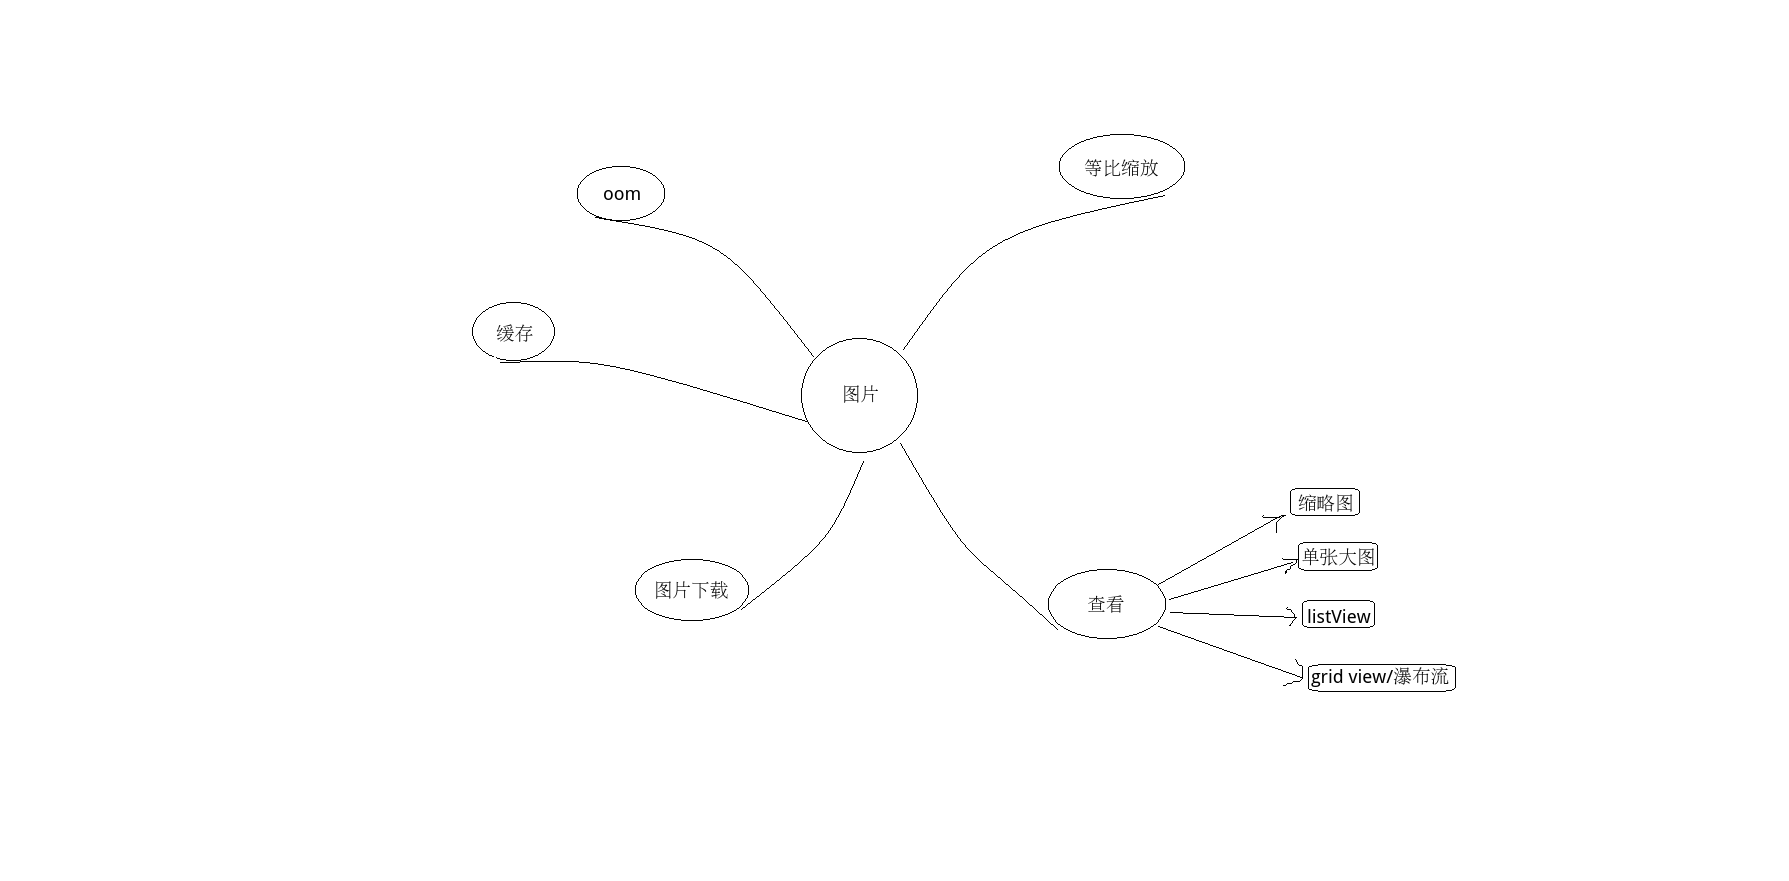
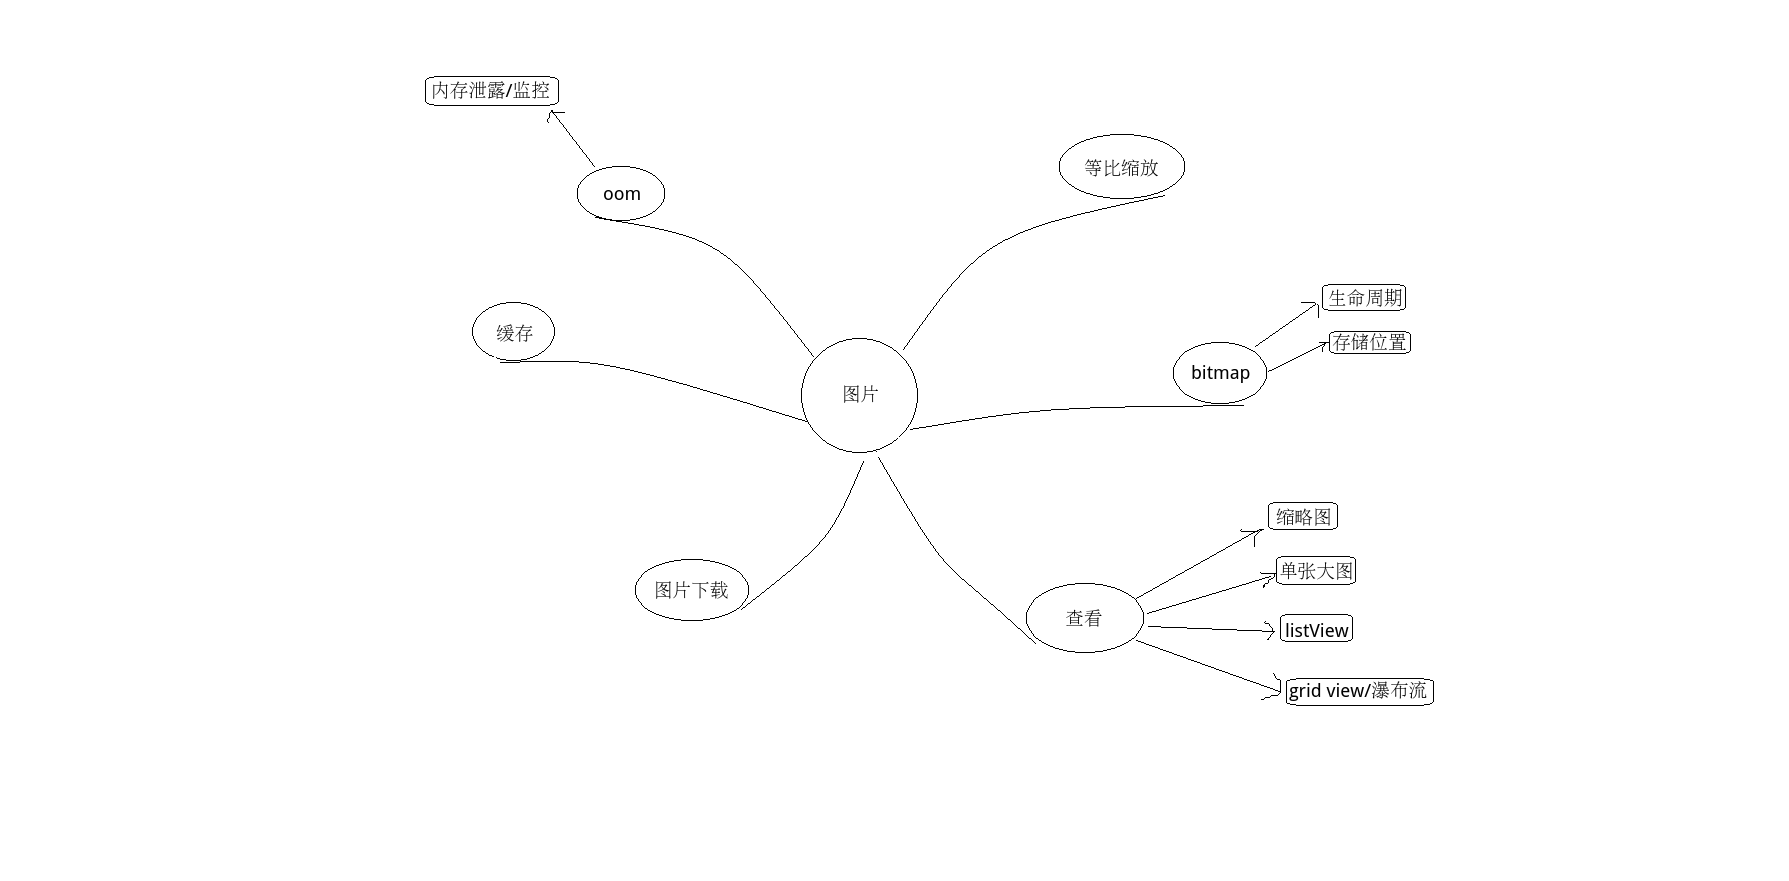
了解当前应用内存使用的情况，为图片oom的复现创建必要条件。

diff --git a/app/src/main/java/com/sevent/oom/OOMActivity.java b/app/src/main/java/com/sevent/oom/OOMActivity.java
@@ -1,0 +1,79 @@
+package com.sevent.oom;
+
+import android.app.Activity;
+import android.app.ActivityManager;
+import android.os.Bundle;
+import android.support.annotation.Nullable;
+import android.view.View;
+import android.widget.EditText;
+import android.widget.ImageView;
+import android.widget.TextView;
+
+import com.seven.cutpic.R;
+
+import java.util.ArrayList;
+import java.util.List;
+
+/**
+ * Created by htyuan on 15-6-18.
+ */
+public class OOMActivity extends Activity implements View.OnClickListener{
+    private TextView mMemInfoView;
+    private EditText mAllocateAmountView;
+    private ImageView mImageView;
+    private List<byte[]> mAllocateMEM = new ArrayList<>();
+
+    protected void onCreate(@Nullable Bundle savedInstanceState) {
+        super.onCreate(savedInstanceState);
+
+        setContentView(R.layout.activity_oom);
+
+        initView();
+    }
+
+    private void initView() {
+        mMemInfoView = (TextView) findViewById(R.id.mem_info_view);
+        mAllocateAmountView = (EditText) findViewById(R.id.amount);
+        mImageView = (ImageView) findViewById(R.id.image);
+    }
+
+    @Override
+    public void onClick(View v) {
+         if (v.getId() == R.id.show_mem_info) {
+             updateMemeInfo();
+         } else if (v.getId() == R.id.allocate){
+             allocateMem();
+         } else if (v.getId() == R.id.gc) {
+             gc();
+         }
+    }
+
+    private void gc() {
+        mAllocateMEM.clear();
+        System.gc();
+    }
+
+    private void allocateMem() {
+        int amount = Integer.parseInt(mAllocateAmountView.getText().toString());
+        mAllocateMEM.add(new byte[amount * 1024 * 1024]);
+    }
+
+    private void updateMemeInfo() {
+        ActivityManager.MemoryInfo mi = new ActivityManager.MemoryInfo();
+        ActivityManager activityManager = (ActivityManager) getSystemService(ACTIVITY_SERVICE);
+        activityManager.getMemoryInfo(mi);
+        StringBuffer sb = new StringBuffer();
+        // 单个应用所能使用的内存的最大值
+        sb.append("base line mem : " + activityManager.getMemoryClass());
+        sb.append("\n");
+        // 整个系统所能使用的最大内存
+        sb.append("from activity manager : " + "totalMem:" + mi.totalMem + "," + "availMen:" + mi.availMem + ", is low : " + mi.lowMemory);
+        sb.append("\n");
+
+        // 当前app申请的内存
+        Runtime runTimeinfo = Runtime.getRuntime();
+        sb.append("from runtime : " + "totalMem:" + runTimeinfo.totalMemory() + "," + "availMen:" + runTimeinfo.freeMemory());
+
+        mMemInfoView.setText(sb.toString());
+    }
+}

diff --git a/app/src/main/java/com/seven/cutpic/MainActivity.java b/app/src/main/java/com/seven/cutpic/MainActivity.java
@@ -6,6 +6,7 @@ import android.os.Bundle;
 import android.view.View;
 
 import com.sevent.business.BigPicBrowse.BigPicBrowseActivity;
+import com.sevent.oom.OOMActivity;
 
 
 public class MainActivity extends Activity implements View.OnClickListener{
@@ -20,11 +21,20 @@ public class MainActivity extends Activity implements View.OnClickListener{
     public void onClick(View v) {
         if (v.getId() == R.id.big_pic_browse_activity) {
            gotoGigPicBrowseActivity();
+        } else if (v.getId() == R.id.oom) {
+            gotoOOMActivity();
         }
+
     }
 
     private void gotoGigPicBrowseActivity() {
         Intent intent = new Intent(this, BigPicBrowseActivity.class);
         startActivity(intent);
     }
+
+    private void gotoOOMActivity() {
+        Intent intent = new Intent(MainActivity.this, OOMActivity.class);
+        startActivity(intent);
+    }
 }
+

diff --git a/app/src/main/java/com/sevent/business/BigPicBrowse/BigPicBrowseActivity.java b/app/src/main/java/com/sevent/business/BigPicBrowse/BigPicBrowseActivity.java
@@ -1,6 +1,7 @@
 package com.sevent.business.BigPicBrowse;
 
 import android.app.Activity;
+import android.content.Intent;
 import android.os.Bundle;
 import android.support.annotation.Nullable;
 import android.view.View;
@@ -23,6 +24,6 @@ public class BigPicBrowseActivity extends Activity implements View.OnClickListen
             BigPicShow bigPicShow = new BigPicShow(this);
             bigPicShow.show(0);
         }
-
     }
+
 }
